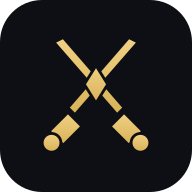
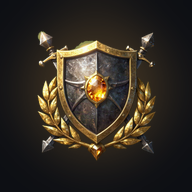
Herb jako ikona strony/aplikacji, nowy podgląd linku; malowane ikony, plakietki, ilustracje pustych miejsc, ozdobnik regulaminu
Claude-Session: https://claude.ai/code/session_01TzKNhLfZ8EBour21AkqsNm

diff --git a/index.html b/index.html
@@ -4,8 +4,8 @@
 <meta charset="utf-8">
 <meta name="viewport" content="width=device-width, initial-scale=1">
 <title>Afkersi · Strona klanowa</title>
-<link rel="icon" type="image/svg+xml" href="icon.svg">
 <link rel="icon" type="image/png" sizes="32x32" href="favicon-32.png">
+<link rel="icon" type="image/png" sizes="64x64" href="favicon-64.png">
 <link rel="apple-touch-icon" href="apple-touch-icon.png">
 <link rel="manifest" href="manifest.webmanifest">
 <!-- podgląd linku na Discordzie / Messengerze (kolor paska z theme-color) -->
@@ -16,13 +16,13 @@
 <meta property="og:title" content="Afkersi – strona klanowa">
 <meta property="og:description" content="Cennik legend, kolejki do tytanów, oferty graczy, składki i regulamin klanu. Zaloguj się przez Discorda.">
 <meta property="og:url" content="https://polsz6868-droid.github.io/cennik-legend/">
-<meta property="og:image" content="https://polsz6868-droid.github.io/cennik-legend/og-image.png">
+<meta property="og:image" content="https://polsz6868-droid.github.io/cennik-legend/og-image.jpg">
 <meta property="og:image:width" content="1200">
 <meta property="og:image:height" content="630">
 <meta property="og:image:alt" content="Afkersi – strona klanowa">
 <meta property="og:locale" content="pl_PL">
 <meta name="twitter:card" content="summary_large_image">
-<meta name="twitter:image" content="https://polsz6868-droid.github.io/cennik-legend/og-image.png">
+<meta name="twitter:image" content="https://polsz6868-droid.github.io/cennik-legend/og-image.jpg">
 <meta name="apple-mobile-web-app-capable" content="yes">
 <meta name="mobile-web-app-capable" content="yes">
 <meta name="apple-mobile-web-app-title" content="Afkersi">
